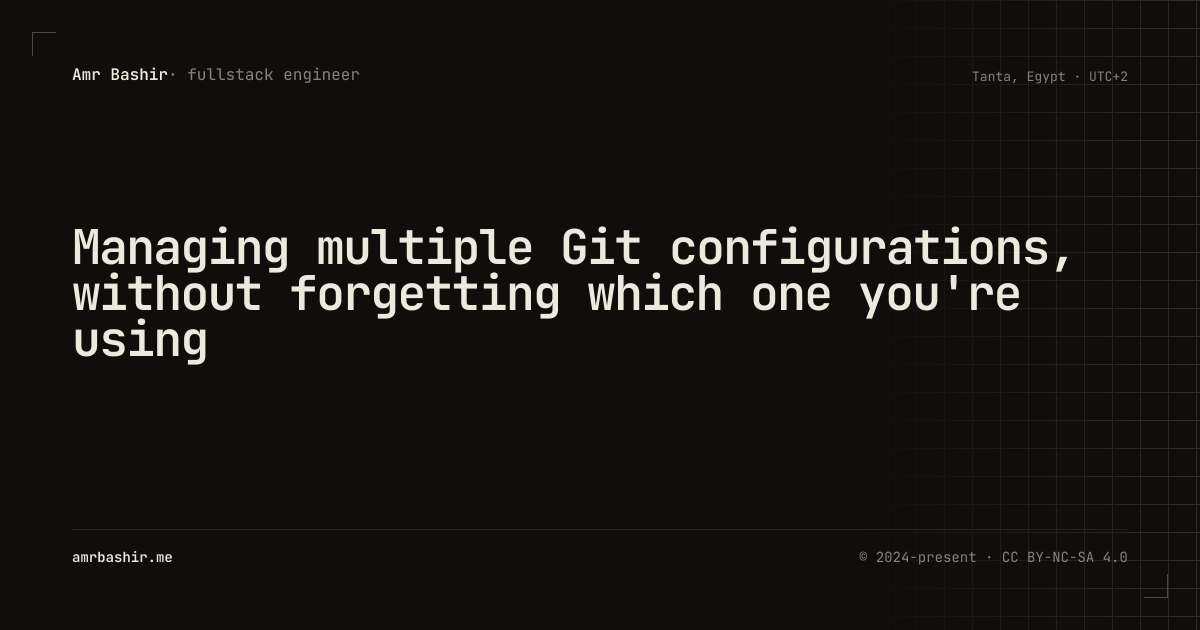
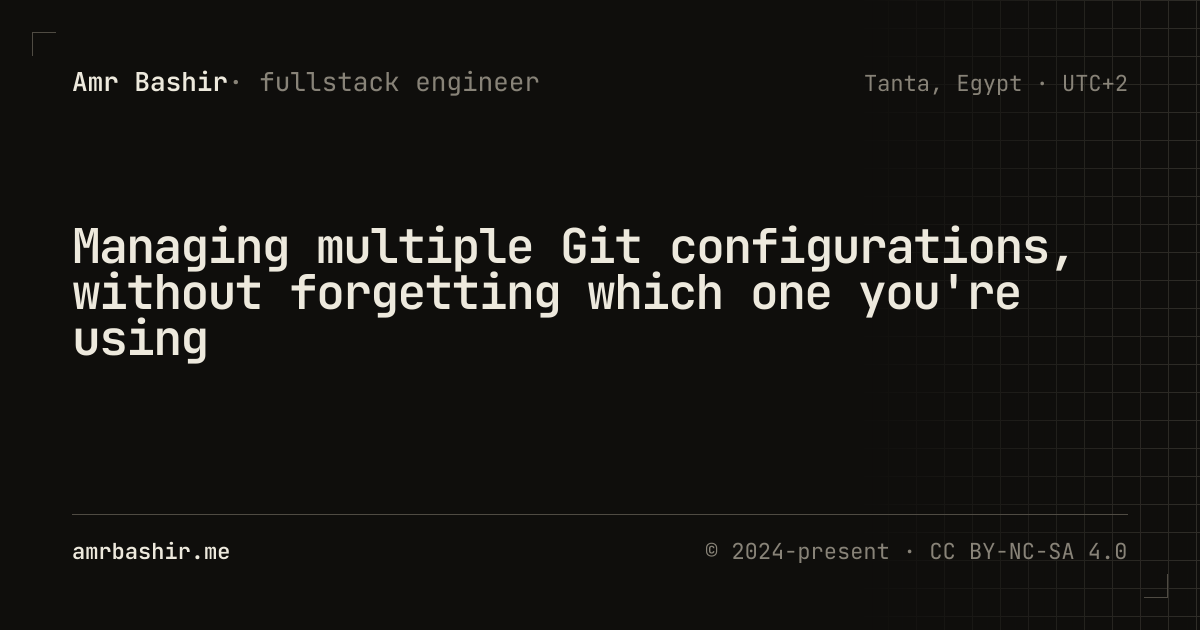
feat(og): update styling in Topbar and BottomBar for improved readability

diff --git a/src/utils/generate-og.tsx b/src/utils/generate-og.tsx
@@ -159,14 +159,14 @@ function Topbar() {
 				alignItems: "baseline",
 			}}
 		>
-			<div style={{ display: "flex", fontSize: 16, color: PALETTE.fg, fontWeight: 600 }}>
+			<div style={{ display: "flex", fontSize: 26, color: PALETTE.fg, fontWeight: 600 }}>
 				{AUTHOR}
 				<span style={{ color: PALETTE.muted, fontWeight: 400 }}>
 					{"  · " + AUTHOR_ROLE.toLowerCase()}
 				</span>
 			</div>
 			<div
-				style={{ fontSize: 13, color: PALETTE.muted }}
+				style={{ fontSize: 22, color: PALETTE.muted }}
 			>{`${AUTHOR_LOCATION}  · ${AUTHOR_TIMEZONE}`}</div>
 		</div>
 	);
@@ -228,13 +228,13 @@ function BottomBar() {
 		<div
 			style={{
 				display: "flex",
-				borderTop: `1px solid ${PALETTE.rule}`,
-				paddingTop: 18,
+				borderTop: `1px solid ${PALETTE.faint}`,
+				paddingTop: 22,
 				justifyContent: "space-between",
 			}}
 		>
-			<div style={{ fontSize: 14, color: PALETTE.fg, fontWeight: 600 }}>{SITE_HOST}</div>
-			<div style={{ fontSize: 14, color: PALETTE.muted }}>{COPYRIGHT}</div>
+			<div style={{ fontSize: 22, color: PALETTE.fg, fontWeight: 600 }}>{SITE_HOST}</div>
+			<div style={{ fontSize: 22, color: PALETTE.muted }}>{COPYRIGHT}</div>
 		</div>
 	);
 }
